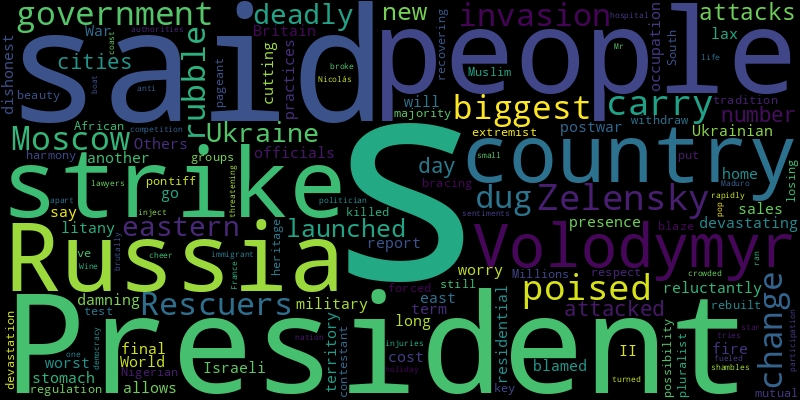
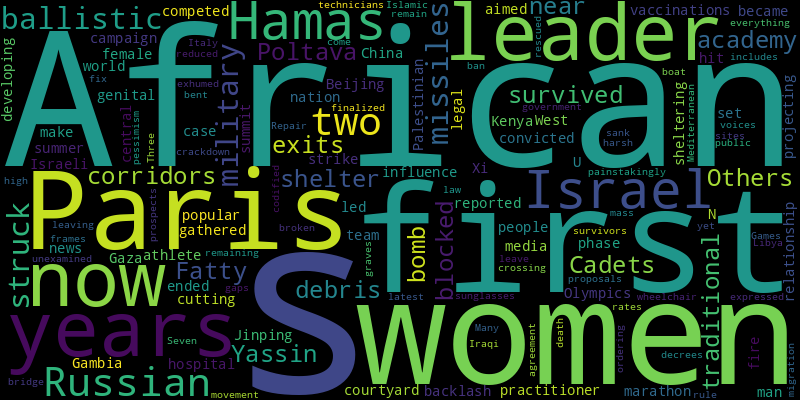
chore(bot): 🤖 auto commit

diff --git a/README.md b/README.md
@@ -2,41 +2,41 @@
 Auto RSS New York Times and Generate Word Cloud
 
 ## New York Times Global News
-* President Volodymyr Zelensky was poised to carry out the biggest change to his government since Moscow’s 2022 invasion. Rescuers dug through the rubble of a deadly strike in eastern Ukraine, as Russia launched new attacks.
-* Russia attacked a number of cities a day after a devastating strike in the country’s east, Ukrainian officials said.
-* Some say they will reluctantly stomach a postwar Israeli military presence in the territory if that allows them to go home. Others worry about another long-term occupation.
-* A damning final report into Britain’s worst residential fire since World War II blamed a litany of cost-cutting, dishonest sales practices and lax regulation for the blaze that killed 72 people.
-* The pontiff said “mutual respect” was the key to harmony in the majority-Muslim country, where a pluralist tradition has been put to the test by extremist groups.
-* Millions of people still recovering from the devastation of 2022 are bracing for the possibility of losing what they’ve rebuilt.
-* A South African beauty pageant contestant with Nigerian heritage was forced to withdraw from the competition after her participation fueled anti-immigrant sentiments.
-* With the nation’s democracy in shambles, President Nicolás Maduro tries to inject some holiday cheer.
-* Over 60 people were crowded into a small boat that “rapidly and brutally” broke apart off the coast of France, authorities said.
-* Mr. Wine, a pop star turned politician who ran for president, is in the hospital, but his injuries are not life-threatening, one of his lawyers said.
+* When two Russian ballistic missiles struck a military academy in Poltava, debris blocked corridors and exits. Cadets near a bomb shelter survived. Others did not.
+* Yassin Fatty, a traditional practitioner of female genital cutting in the West African nation of Gambia, became the first to be convicted there. But her case led to a backlash and a popular campaign to make it legal again.
+* As the first phase of vaccinations ended, an Israeli strike hit a hospital courtyard in central Gaza where people were sheltering, Palestinian news media reported.
+* The athlete, who was set on fire in Kenya by a man with whom she was in a relationship, competed in the women’s marathon at the Paris Olympics this summer.
+* More than 50 African leaders have gathered in Beijing for a summit aimed at projecting the influence of China’s leader, Xi Jinping, in the developing world.
+* For years, a U.N. team has painstakingly exhumed mass graves, but now the Iraqi government is ordering it to leave. Many sites remain unexamined.
+* Repair technicians at the Paris Games fix everything from bent wheelchair frames to broken sunglasses.
+* Three years into its rule, the movement has codified its harsh Islamic decrees into law that now includes a ban on women’s voices in public.
+* The latest proposals to bridge the remaining gaps between Israel and Hamas have yet to be finalized. Both Israel and Hamas have expressed pessimism over the prospects for an agreement.
+* Seven survivors were rescued from the boat that sank after leaving Libya. A crackdown by Italy has reduced migration, but not the high death rates that come with crossing the Mediterranean.
 
 ![Global](./global.png)
 ## New York Times United States News
-* “This was a random act of violence,” an official said. The man, 30, faces four counts of murder.
+* Joshua Seal, a Deaf man killed in a mass shooting last fall, did not get to see the third season of the camp he started. But 22 Deaf or hard-of-hearing children did, including his own.
+* After students at the University of North Carolina shielded a U.S. flag from protesters, admirers raised money to throw a “rager” in their honor. Some didn’t want it.
+* The movement of the ground in Rancho Palos Verdes is threatening homes. But as the city searches for solutions, many residents are committed to staying.
 * A new analysis of American elections finds that in half of all races for partisan offices, a candidate runs unopposed. Democrats are the biggest no-shows.
-* The defendant, Muhammad Syed, pleaded no contest to two murder charges. But his motive remains unknown.
-* Bob Garrison was determined to rescue his son from the streets. The path was more difficult than he had imagined.
-* If her record is any guide, Judge Tanya Chutkan will try to keep pretrial proceedings moving along after a lengthy hiatus and the Supreme Court’s decision granting former presidents broad immunity.
-* The chairman of the House Foreign Affairs Committee summoned the secretary of state for testimony just days before an expected report on the U.S. exit, in which 13 American service members were killed.
-* Mr. Sheehy, a Republican, is the nominee for a Senate seat in Montana, where Indigenous residents make up about 6 percent of the population.
-* Speaking to Sean Hannity, Donald Trump contradicted his campaign’s prior statements about a confrontation involving his campaign at Arlington National Cemetery last week.
-* A deputy constable was driving to work Tuesday when he was shot and killed at an intersection in Houston, the police said. A suspect was in custody Tuesday afternoon.
-* Republicans tied campus unrest to their party platform. But the intensity may have fizzled.
+* The vice president is relying on tax proposals as a way to show she is different from both President Biden and her Republican rival, Donald Trump.
+* A hearing Thursday will include arguments on a proposal that would allow colleges to pay athletes directly. But detractors say the deal still doesn’t offer players enough.
+* Activists, party lawyers and state officials are mobilizing behind a crackdown on a supposed scourge of noncitizens’ casting ballots. Voting rights advocates say the effort is spreading misinformation.
+* American citizens whose spouses have been deported face wrenching decisions on what is best for their future, especially when they have children.
+* Two students and two teachers were shot dead at the high school in Winder, Ga. At least nine others were injured.
+* A photo widely circulating on social media shows “Walz’s for Trump” from a side of the family Gov. Tim Walz’s sister said the Walzes “don’t even know.”
 
 ![US](./usnews.png)
 ## New York Times Asia News
+* Officials have accused Alice Guo of helping criminal syndicates involved in online scams and human trafficking, and have questioned her about whether she was born in China.
+* For many trans women living on the fringes of the nation’s society, the Catholic Church is a haven, and Pope Francis a personal hero.
+* Nga Wai Hono i te Po, 27, is the second woman to assume the ceremonial role. She takes the throne as some of the country’s pro-Maori policies are being pared back.
+* The storm has killed at least 13 people in the Philippines and is forecast to be the strongest to hit Hainan Province in a decade.
+* More than 50 African leaders have gathered in Beijing for a summit aimed at projecting the influence of China’s leader, Xi Jinping, in the developing world.
+* Plus, Daniel Dae Kim takes a risk.
+* The Committee on Foreign Investment in the United States is expected to raise national security concerns about selling the iconic steel producer to Japan’s Nippon Steel.
+* Three years into its rule, the movement has codified its harsh Islamic decrees into law that now includes a ban on women’s voices in public.
+* Starting in the majority-Muslim nation, Francis is undertaking an 11-day journey through Asia and Oceania.
 * The series, based on a 1999 plane hijacking, prompted backlash on social media. Critics claimed it wrongly portrayed the Islamist hijackers as Hindus.
-* The pontiff said “mutual respect” was the key to harmony in the majority-Muslim country, where a pluralist tradition has been put to the test by extremist groups.
-* Millions of people still recovering from the devastation of 2022 are bracing for the possibility of losing what they’ve rebuilt.
-* Homeowners are gearing up to pay more on their loans as the Bank of Japan’s rate increases signal the end of decades of ultralow interest rates.
-* A sharp decline in major U.S. stock indexes, led by tech stocks like Nvidia, reverberated through Asia and Europe on Wednesday.
-* Plus, a quiz to test healthy brain habits.
-* The country has been hit by a wave of sexually explicit videos and pictures that have spread online, prompting the authorities to launch a sweeping investigation.
-* John Podesta is expected to push for China to set more ambitious greenhouse gas targets.
-* Ukrainian officials expressed outrage over the Russian leader’s visit, warning they would seek to “ensure that this has consequences” for Mongolia.
-* The Hong Kong airline has canceled dozens of flights to inspect Airbus A350 planes since it found a problem with a Rolls-Royce engine in one of them.
 
 ![Asian](./asian.png)
